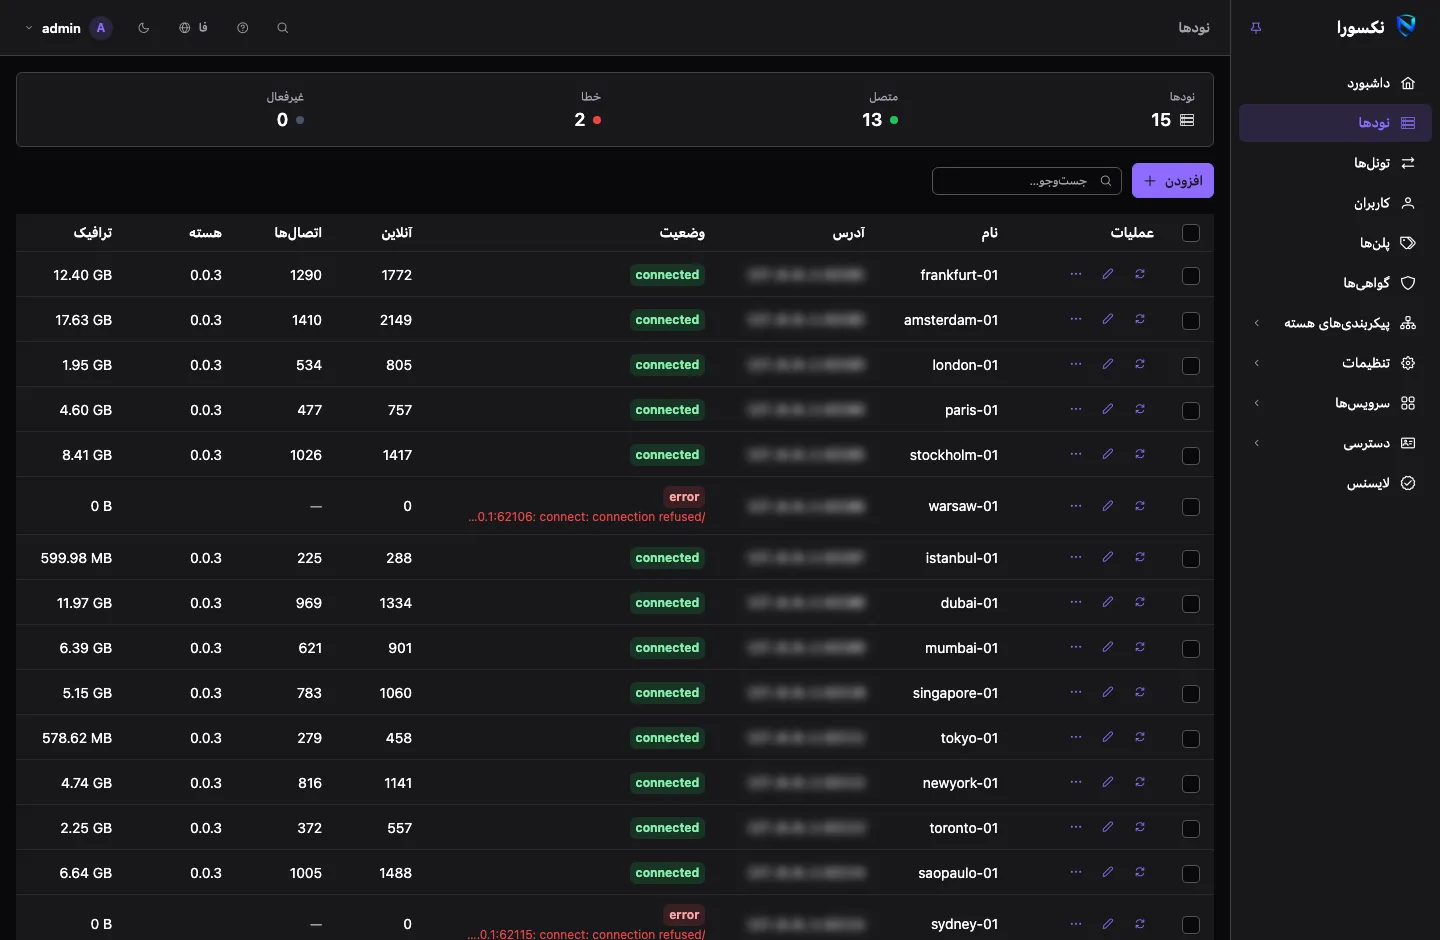
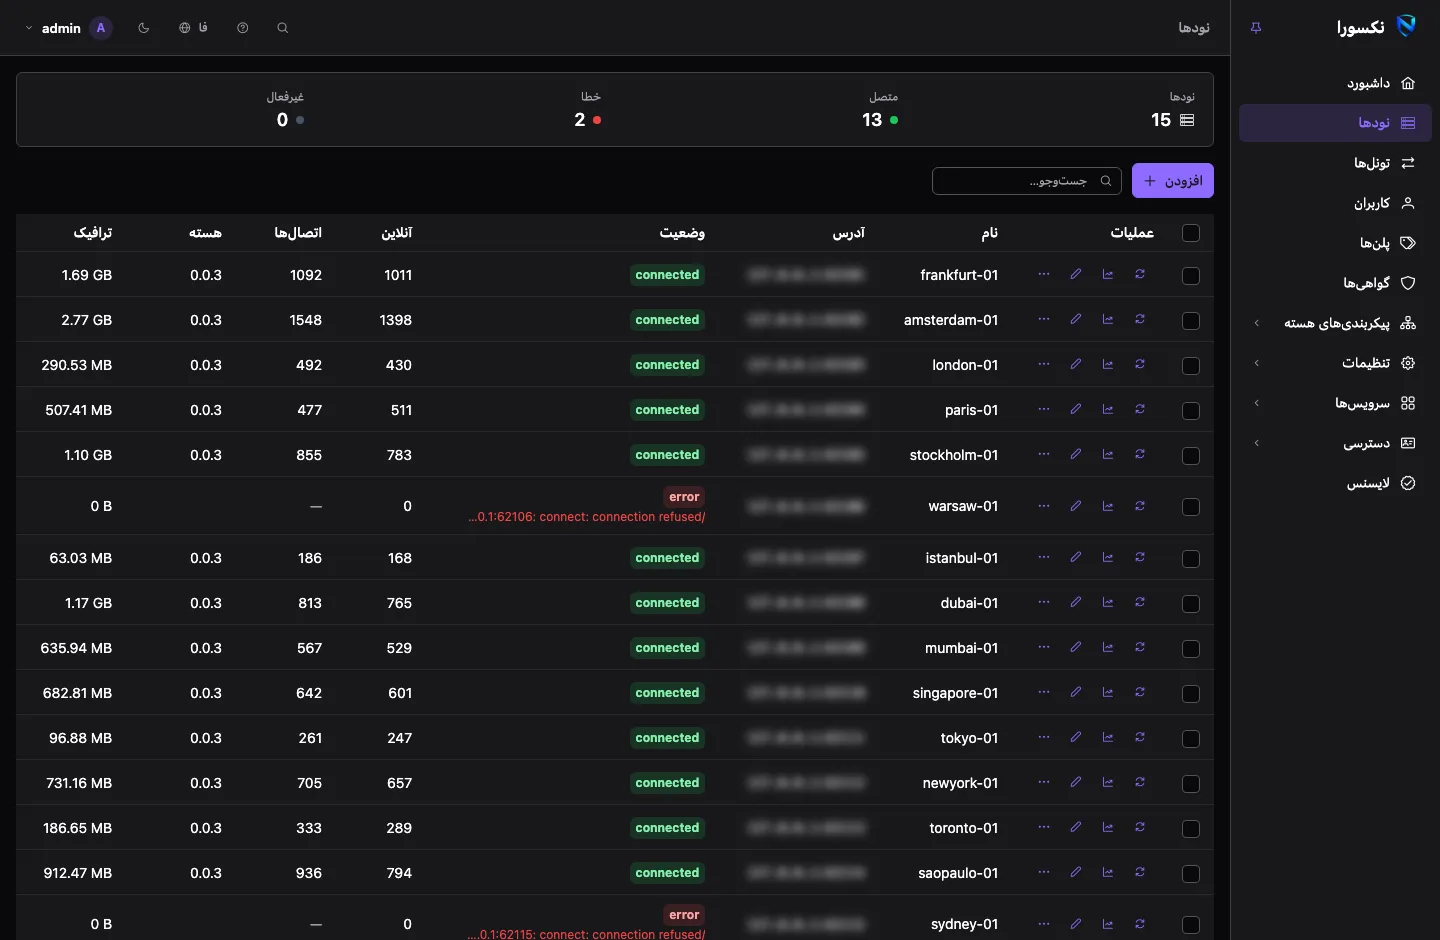
docs: node row usage graph

diff --git a/src/ru/use/nodes.md b/src/ru/use/nodes.md
@@ -152,8 +152,8 @@ tags: [node, monitoring]
 
 ## Меню узла {#a-node-s-menu}
 
-В каждой строке есть две кнопки — **Синхронизировать** и **Изменить** — и
-меню **⋮** для остального. Вместе они предлагают:
+В каждой строке есть три кнопки — **Синхронизировать**, **График трафика** и
+**Изменить** — и меню **⋮** для остального. Вместе они предлагают:
 
 | Пункт | Что делает |
 | --- | --- |

diff --git a/src/fa/use/nodes.md b/src/fa/use/nodes.md
@@ -145,8 +145,8 @@ GitHub همهی گزینههای خط فرمان را پوشش میده
 
 ## منوی نود {#a-node-s-menu}
 
-هر ردیف دو دکمه دارد، **همگامسازی** و **ویرایش**، و یک منوی **⋮** برای
-بقیه. روی هم اینها را ارائه میکنند:
+هر ردیف سه دکمه دارد، **همگامسازی**، **نمودار مصرف** و **ویرایش**، و یک منوی
+**⋮** برای بقیه. روی هم اینها را ارائه میکنند:
 
 | گزینه | چه میکند |
 | --- | --- |

diff --git a/src/use/nodes.md b/src/use/nodes.md
@@ -145,8 +145,8 @@ authorised key is skipped: update it from its own **Install** dialog, or the
 
 ## A node's menu
 
-Each row has two buttons, **Sync** and **Edit**, and a **⋮** menu for the
-rest. Between them they offer:
+Each row has three buttons, **Sync**, **Usage graph** and **Edit**, and a
+**⋮** menu for the rest. Between them they offer:
 
 | Entry | What it does |
 | --- | --- |

diff --git a/src/zh/use/nodes.md b/src/zh/use/nodes.md
@@ -100,7 +100,7 @@ tags: [node, monitoring]
 
 ## 节点菜单 {#a-nodes-menu}
 
-每行有两个按钮：**同步**和**编辑**，其余操作在 **⋮** 菜单中。它们提供：
+每行有三个按钮：**同步**、**流量图表**和**编辑**，其余操作在 **⋮** 菜单中。它们提供：
 
 | 菜单项 | 作用 |
 | --- | --- |
